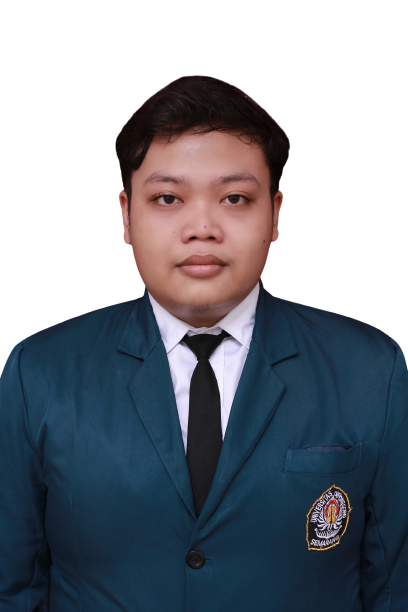
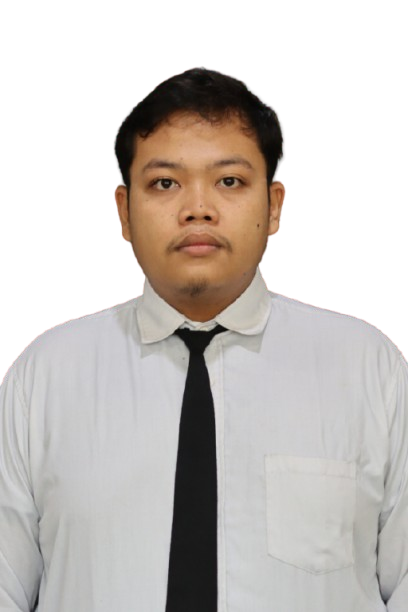
update

diff --git a/index.html b/index.html
@@ -224,10 +224,10 @@
                   </div>
                 </div>
                 <div class="skills__data">
-                  <i class="bx bxs-badge-check" style="padding-top: 10px"></i>
+                  <i class="bx bxs-badge-check"></i>
                   <div>
-                    <h3 class="skills__name" style="padding-top: 10px">Firebase</h3>
-                    <span class="skills__level"> </span>
+                    <h3 class="skills__name">PostgreSQL</h3>
+                    <span class="skills__level"></span>
                   </div>
                 </div>
               </div>
@@ -237,6 +237,43 @@
                   <div>
                     <h3 class="skills__name">Thingspeak</h3>
                     <span class="skills__level"></span>
+                  </div>
+                </div>
+              </div>
+            </div>
+          </div>
+          <div class="skills__content">
+            <h3 class="skills__title">Programming &amp; AI</h3>
+            <div class="skills__box">
+              <div class="skills_group">
+                <div class="skills__data">
+                  <i class="bx bxs-badge-check"></i>
+                  <div>
+                    <h3 class="skills__name">Python</h3>
+                    <span class="skills__level">Programming</span>
+                  </div>
+                </div>
+              </div>
+              <div class="skills_group">
+                <div class="skills__data">
+                  <i class="bx bxs-badge-check"></i>
+                  <div>
+                    <h3 class="skills__name">AI</h3>
+                    <span class="skills__level">Artificial Intelligence</span>
+                  </div>
+                </div>
+              </div>
+            </div>
+          </div>
+          <div class="skills__content">
+            <h3 class="skills__title">Manage Server</h3>
+            <div class="skills__box">
+              <div class="skills_group">
+                <div class="skills__data">
+                  <i class="bx bxs-badge-check"></i>
+                  <div>
+                    <h3 class="skills__name">Jaringan</h3>
+                    <span class="skills__level">Network Management</span>
                   </div>
                 </div>
               </div>
